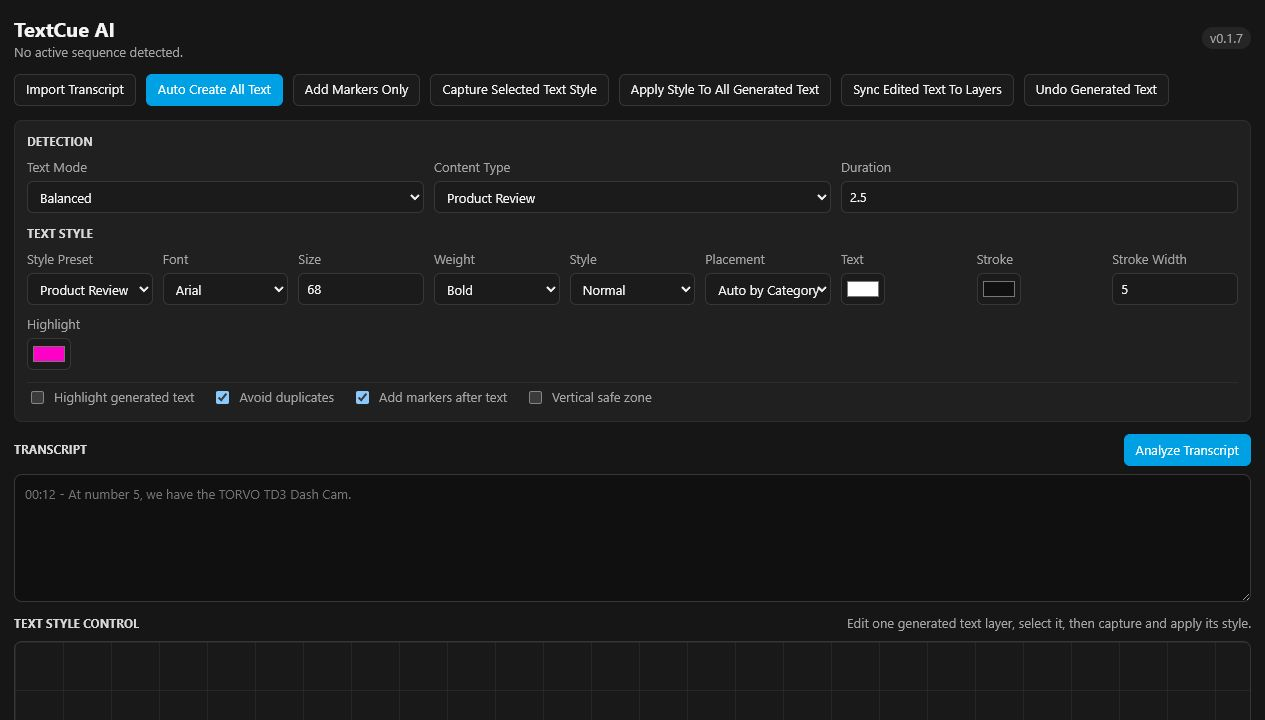
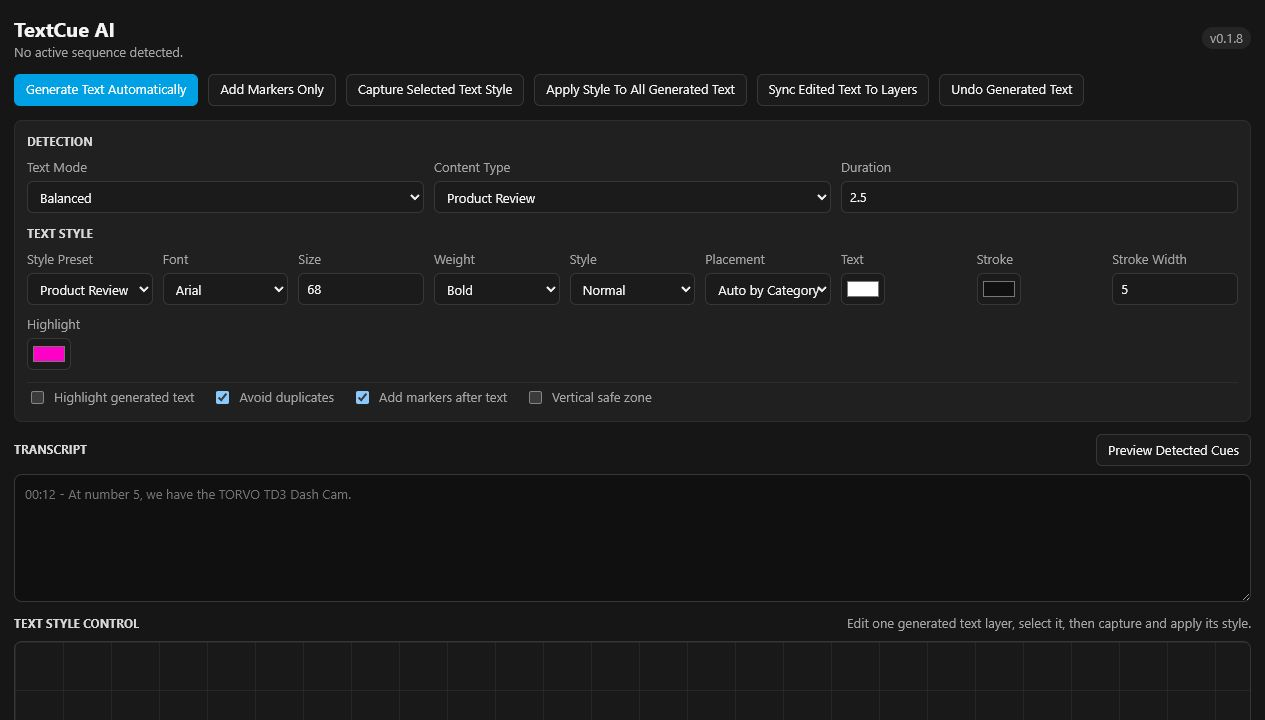
Remove transcript file import flow

Changed region(s): [[0.0, 0.0917, 0.9249, 0.1528], [0.8632, 0.5806, 1.0, 0.6722]]

diff --git a/Source-Code/textcue-ai/src/main.js b/Source-Code/textcue-ai/src/main.js
@@ -52,7 +52,6 @@ function initializePanel() {
 
   for (const id of [
     "sequenceStatus",
-    "importTranscriptBtn",
     "autoCreateBtn",
     "markersOnlyBtn",
     "captureStyleBtn",
@@ -61,7 +60,6 @@ function initializePanel() {
     "undoBtn",
     "analyzeTranscriptBtn",
     "transcriptInput",
-    "fileInput",
     "resultsBody",
     "resultSummary",
     "messageBar",
@@ -73,8 +71,6 @@ function initializePanel() {
     elements[id] = document.getElementById(id);
   }
 
-  elements.importTranscriptBtn.addEventListener("click", () => elements.fileInput.click());
-  elements.fileInput.addEventListener("change", handleTranscriptImport);
   elements.analyzeTranscriptBtn.addEventListener("click", handleAnalyzeTranscript);
   elements.autoCreateBtn.addEventListener("click", handleAutoCreateAll);
   elements.markersOnlyBtn.addEventListener("click", handleMarkersOnly);
@@ -175,23 +171,6 @@ async function refreshSequenceStatus() {
   elements.sequenceStatus.textContent = sequence ? `Active sequence: ${sequence.name || "Untitled"}` : "No active sequence detected.";
 }
 
-async function handleTranscriptImport(event) {
-  const file = event.target.files?.[0];
-  if (!file) {
-    return;
-  }
-
-  try {
-    elements.transcriptInput.value = await file.text();
-    setMessage(`Imported ${file.name}.`);
-    await handleAnalyzeTranscript();
-  } catch (error) {
-    showError(error);
-  } finally {
-    event.target.value = "";
-  }
-}
-
 async function handleAnalyzeTranscript() {
   try {
     const settings = readSettingsFromDom();
@@ -217,6 +196,10 @@ async function handleAnalyzeTranscript() {
 
 async function handleAutoCreateAll() {
   const settings = readSettingsFromDom();
+  if (cues.length === 0) {
+    await handleAnalyzeTranscript();
+  }
+
   const targets = cues.filter((cue) => cue.status === "Needs Text" || cue.status === "Review");
   if (targets.length === 0) {
     setMessage("No pending text cues to create.");

diff --git a/Source-Code/textcue-ai/index.html b/Source-Code/textcue-ai/index.html
@@ -13,12 +13,11 @@
           <h1>TextCue AI</h1>
           <p id="sequenceStatus">Import a timestamped transcript and generate missing text cues.</p>
         </div>
-        <span class="badge">v0.1.7</span>
+        <span class="badge">v0.1.8</span>
       </header>
 
       <section class="toolbar" aria-label="Main actions">
-        <button id="importTranscriptBtn">Import Transcript</button>
-        <button id="autoCreateBtn" class="primary">Auto Create All Text</button>
+        <button id="autoCreateBtn" class="primary">Generate Text Automatically</button>
         <button id="markersOnlyBtn">Add Markers Only</button>
         <button id="captureStyleBtn">Capture Selected Text Style</button>
         <button id="applyStyleAllBtn">Apply Style To All Generated Text</button>
@@ -154,7 +153,7 @@
       <section class="transcript-section">
         <div class="section-heading">
           <h2>Transcript</h2>
-          <button id="analyzeTranscriptBtn" class="primary">Analyze Transcript</button>
+          <button id="analyzeTranscriptBtn">Preview Detected Cues</button>
         </div>
         <textarea id="transcriptInput" spellcheck="false" placeholder="00:12 - At number 5, we have the TORVO TD3 Dash Cam."></textarea>
       </section>
@@ -188,7 +187,7 @@
             </thead>
             <tbody id="resultsBody">
               <tr>
-                <td colspan="6" class="empty-state">Paste or import a timestamped transcript to begin.</td>
+                <td colspan="6" class="empty-state">Paste a timestamped transcript to begin.</td>
               </tr>
             </tbody>
           </table>
@@ -201,8 +200,6 @@
         <a id="updateLink" href="#" target="_blank" rel="noopener">Download update</a>
       </footer>
     </main>
-
-    <input id="fileInput" type="file" accept=".txt,.srt,.vtt" hidden />
     <script type="module" src="./src/main.js"></script>
   </body>
 </html>

diff --git a/Source-Code/textcue-ai/src/updateChecker.js b/Source-Code/textcue-ai/src/updateChecker.js
@@ -1,4 +1,4 @@
-export const CURRENT_VERSION = "0.1.7";
+export const CURRENT_VERSION = "0.1.8";
 export const LATEST_RELEASE_API = "https://api.github.com/repos/tonuafsar-commits/textcue-ai-premiere-pro/releases/latest";
 export const STABLE_DOWNLOAD_URL = "https://github.com/tonuafsar-commits/textcue-ai-premiere-pro/releases/latest/download/TextCue-AI-All-In-One.zip";
 

diff --git a/Source-Code/textcue-ai/README.md b/Source-Code/textcue-ai/README.md
@@ -1,6 +1,6 @@
 # TextCue AI
 
-TextCue AI is a Premiere Pro UXP panel MVP for finding spoken moments that probably need on-screen text. It parses a timestamped transcript, detects cue-worthy lines, checks the active timeline for existing text-like clips, and lets an editor create text, add review markers, ignore cues, undo generated text from the current session, apply one captured text style to every generated text layer, and sync edited cue text back into generated layers.
+TextCue AI is a Premiere Pro UXP panel MVP for finding spoken moments that probably need on-screen text. It parses a pasted timestamped transcript, detects cue-worthy lines, checks the active timeline for existing text-like clips, and lets an editor create text, add review markers, ignore cues, undo generated text from the current session, apply one captured text style to every generated text layer, and sync edited cue text back into generated layers.
 
 Stable latest all-in-one download:
 
@@ -42,7 +42,7 @@ If the manifest changes, unload and reload the plugin in UXP Developer Tool.
 
 1. Open a Premiere Pro project and activate the sequence you want to check.
 2. Open the TextCue AI panel.
-3. Paste a transcript or click **Import Transcript** and choose a `.txt`, `.srt`, or `.vtt` file.
+3. Paste a timestamped transcript into the transcript box.
 4. Use transcript lines like:
 
 ```text
@@ -52,11 +52,11 @@ If the manifest changes, unload and reload the plugin in UXP Developer Tool.
 00:52 - Make sure your car supports wired CarPlay first.
 ```
 
-5. Click **Analyze Transcript**.
+5. Click **Generate Text Automatically** to analyze and create text in one step, or **Preview Detected Cues** to review first.
 6. Review the detected cues. Edit suggested text directly in the result list when needed.
 7. Use per-cue actions: **Jump**, **Create Text**, **Add Marker**, or **Ignore**.
 8. Use global actions when ready:
-   - **Auto Create All Text** creates all pending/review cues.
+   - **Generate Text Automatically** analyzes the pasted transcript and creates all pending/review cues.
    - **Add Markers Only** adds review markers without creating text.
    - **Capture Selected Text Style** reads the style from one selected generated text layer.
    - **Apply Style To All Generated Text** applies that captured style to every text layer generated in the current session.

diff --git a/Source-Code/textcue-ai/FUNCTIONAL_STATUS.md b/Source-Code/textcue-ai/FUNCTIONAL_STATUS.md
@@ -5,7 +5,7 @@ TextCue AI is packaged as a Premiere Pro UXP extension MVP.
 ## Implemented
 
 - Premiere UXP manifest v5 panel scaffold.
-- Manual transcript paste/import.
+- Manual transcript paste.
 - Timestamp parsing for `MM:SS - text`, `HH:MM:SS - text`, bracketed timestamps, and seconds.
 - Rule-based cue detection for ranking/product intro, product names, prices, specs, warnings, tutorial steps, claims, pros/cons, and compatibility notes.
 - Suggested on-screen text generation.